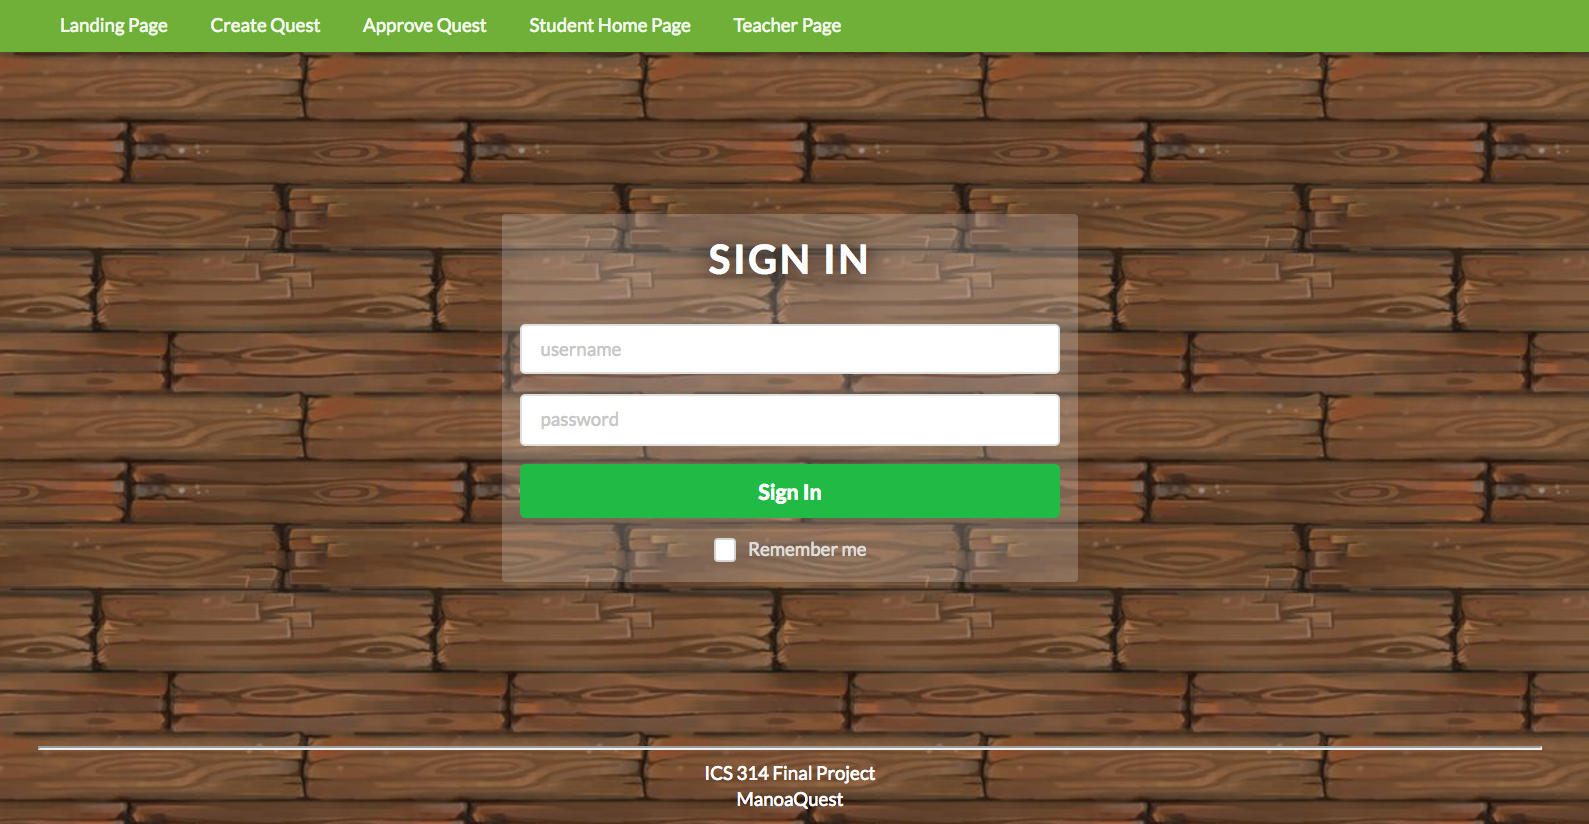
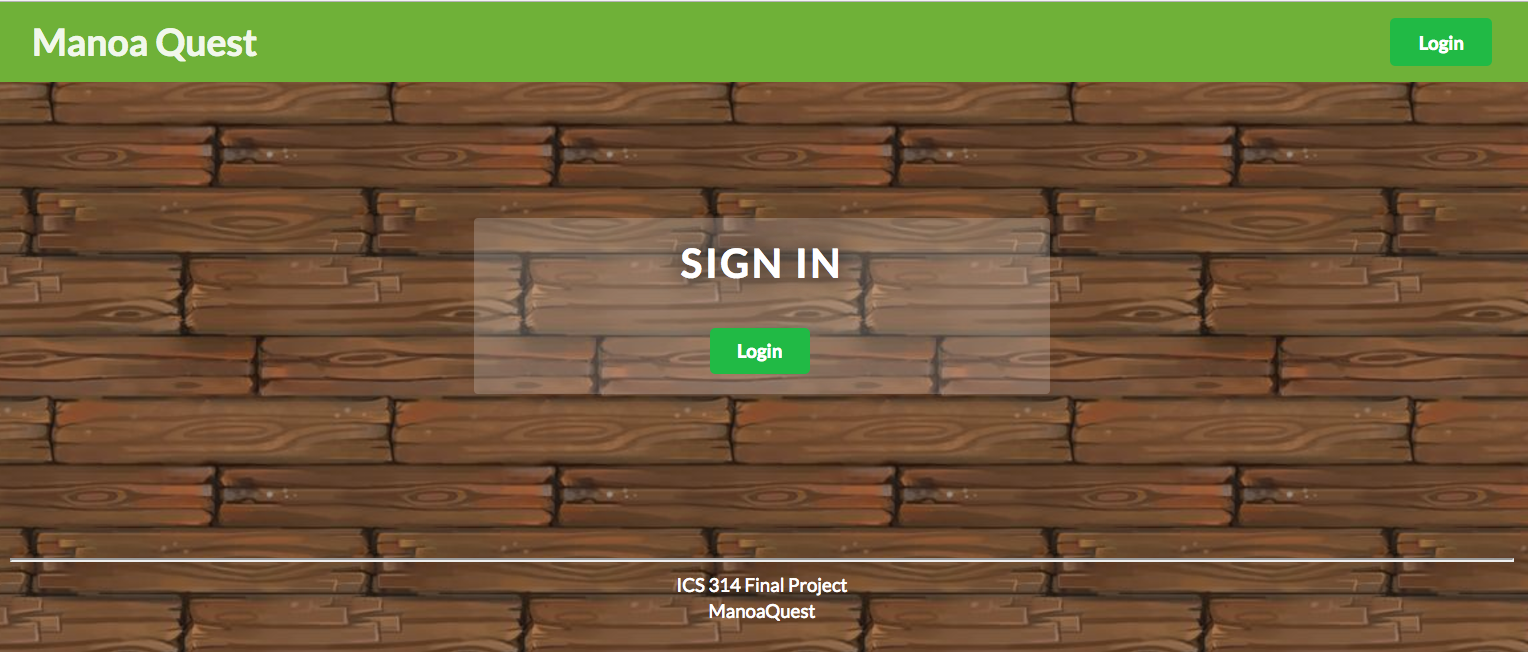
Good to go

diff --git a/README.md b/README.md
@@ -24,6 +24,8 @@ When first accessing the site the user is presented with this landing page. It c
 
 ![alt text](https://manoaquest.github.io/screenshots/landing-page.png "Landing Page")
 
+![alt text](https://manoaquest.github.io/screenshots/cas.png "CAS System")
+
 After signing in, the user is presented with one of several differnet home pages depending on their role in the class.
 
 If the user who logged in was a student, their home page would look similar to this:
